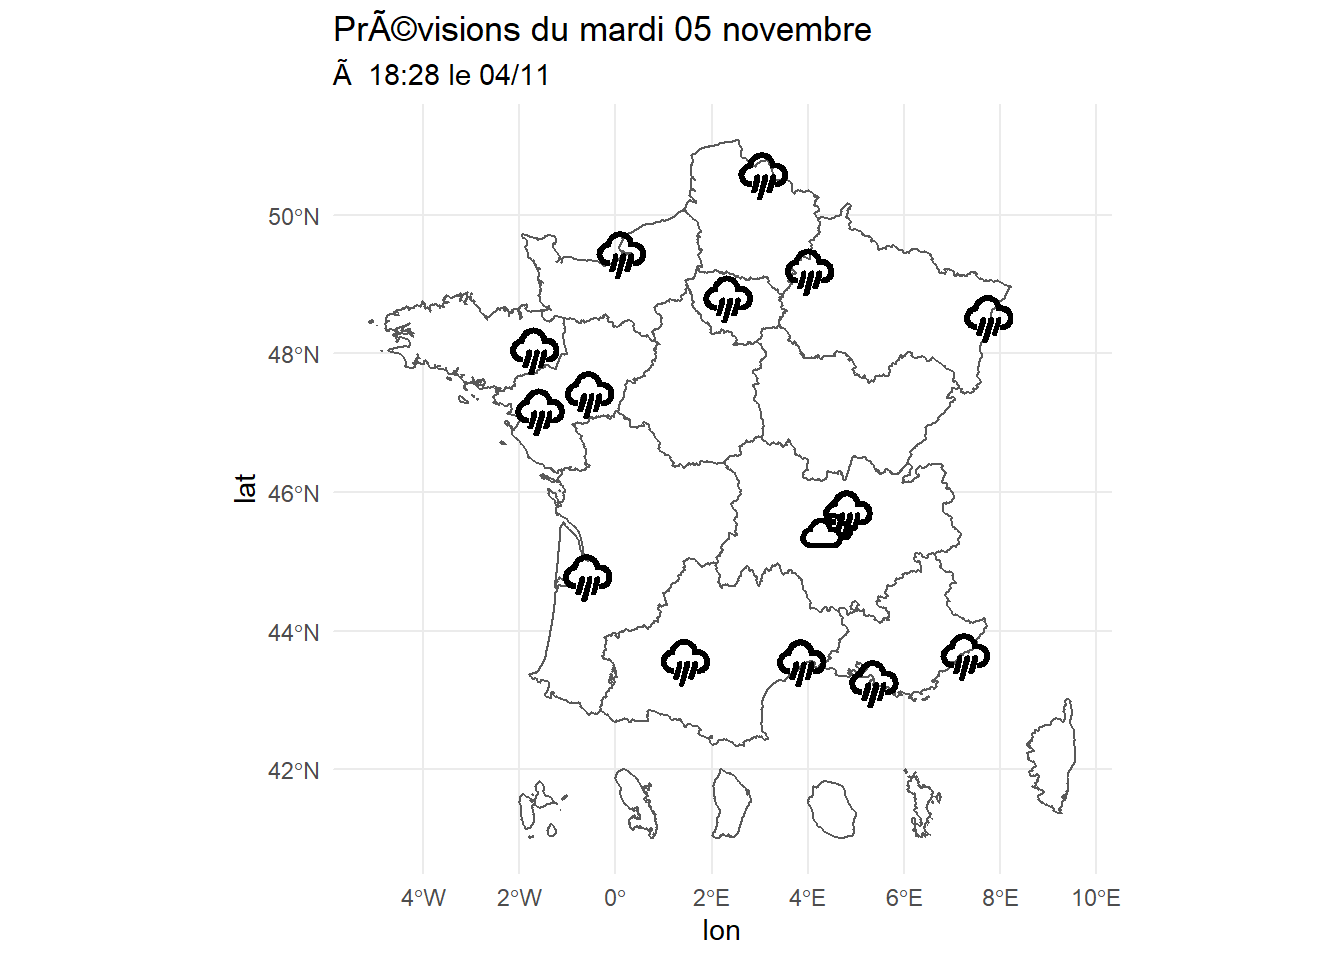
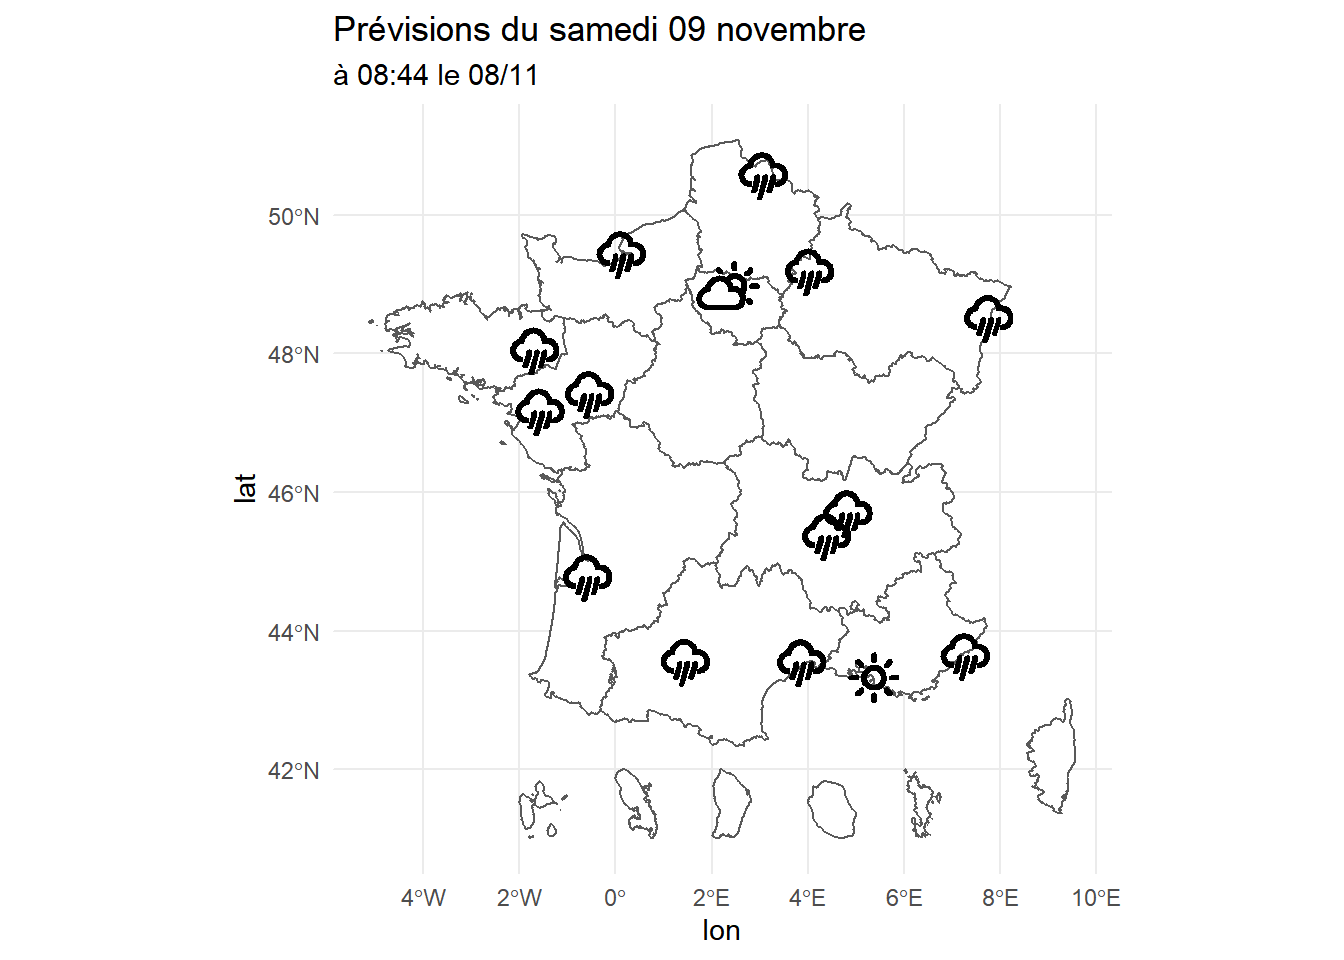
update README

diff --git a/README.md b/README.md
@@ -1,7 +1,7 @@
 
 <!-- README.md is generated from README.Rmd. Please edit that file -->
 
-# weather <img src="man/figures/meteo-france-2.png" width=450 align="right" />
+# weather <img src="man/figures/france-meteo.png" width=450 align="right" />
 
 <!-- badges: start -->
 
@@ -107,7 +107,7 @@ fr_tomorrow <- fr_now[as.character(fr_now$time) == Sys.Date() + 1, ]
 
 # Load France polygons
 france <- loadMap(nivsupra = "REG") 
-#> Reading layer `REG_2019_CARTElette' from data source `C:\Users\perri\AppData\Local\Temp\RtmpaaFX6h\REG_2019_CARTElette.shp' using driver `ESRI Shapefile'
+#> Reading layer `REG_2019_CARTElette' from data source `C:\Users\perri\AppData\Local\Temp\RtmpEBfYvO\REG_2019_CARTElette.shp' using driver `ESRI Shapefile'
 #> Simple feature collection with 18 features and 2 fields
 #> geometry type:  MULTIPOLYGON
 #> dimension:      XY
@@ -126,10 +126,10 @@ ggplot(data = france) +
   theme_minimal() + 
   labs(
     title = paste(
-      "PrÃ©visions du", 
+      "Prévisions du", 
       format(fr_tomorrow$time[1], format = "%A %d %B")
     ),
-    subtitle = paste("Ã ", format(Sys.time(), format = "%H:%M le %d/%m"))
+    subtitle = paste("à", format(Sys.time(), format = "%H:%M le %d/%m"))
   )
 ```
 
